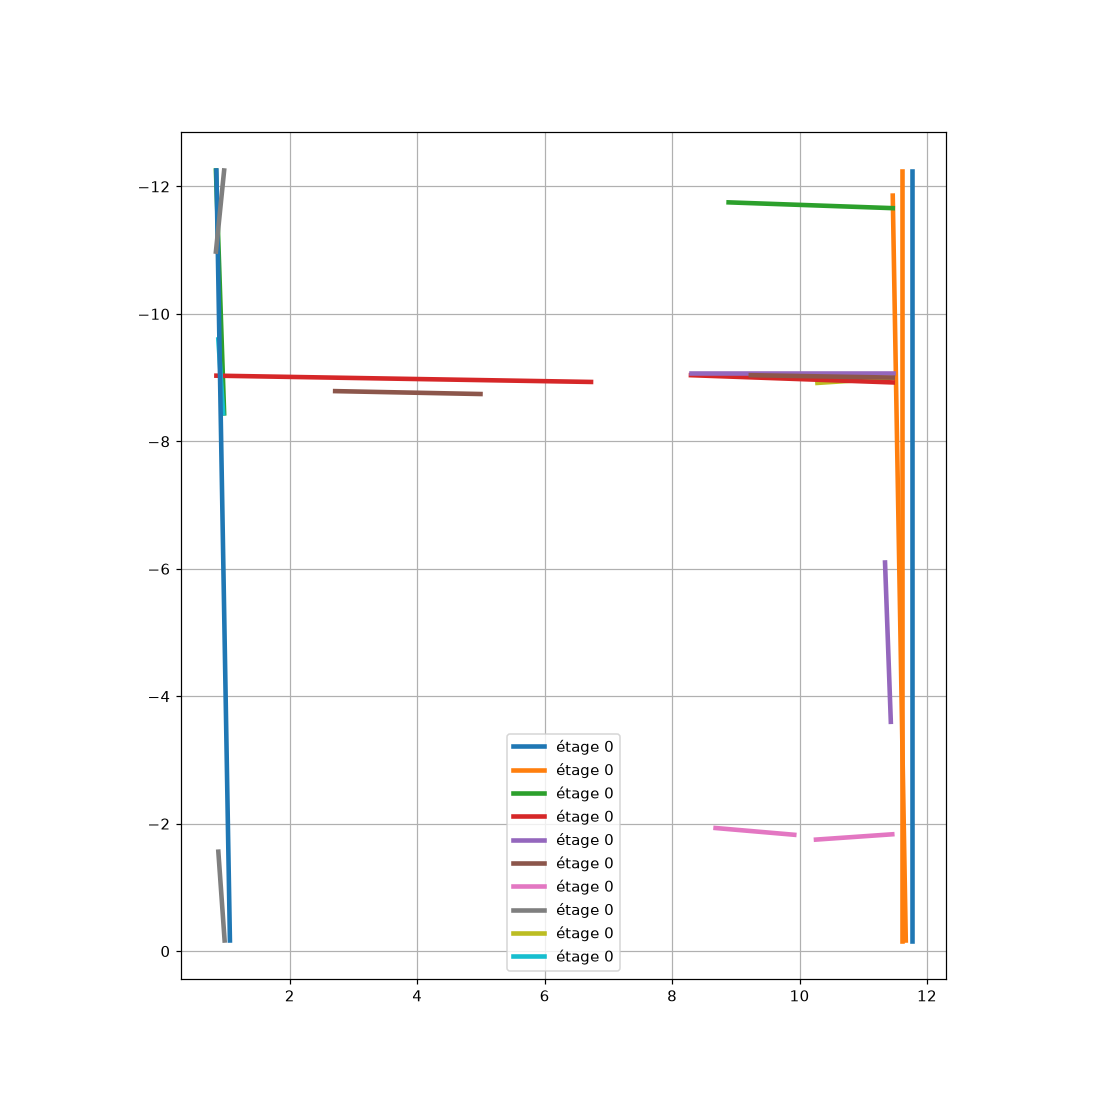
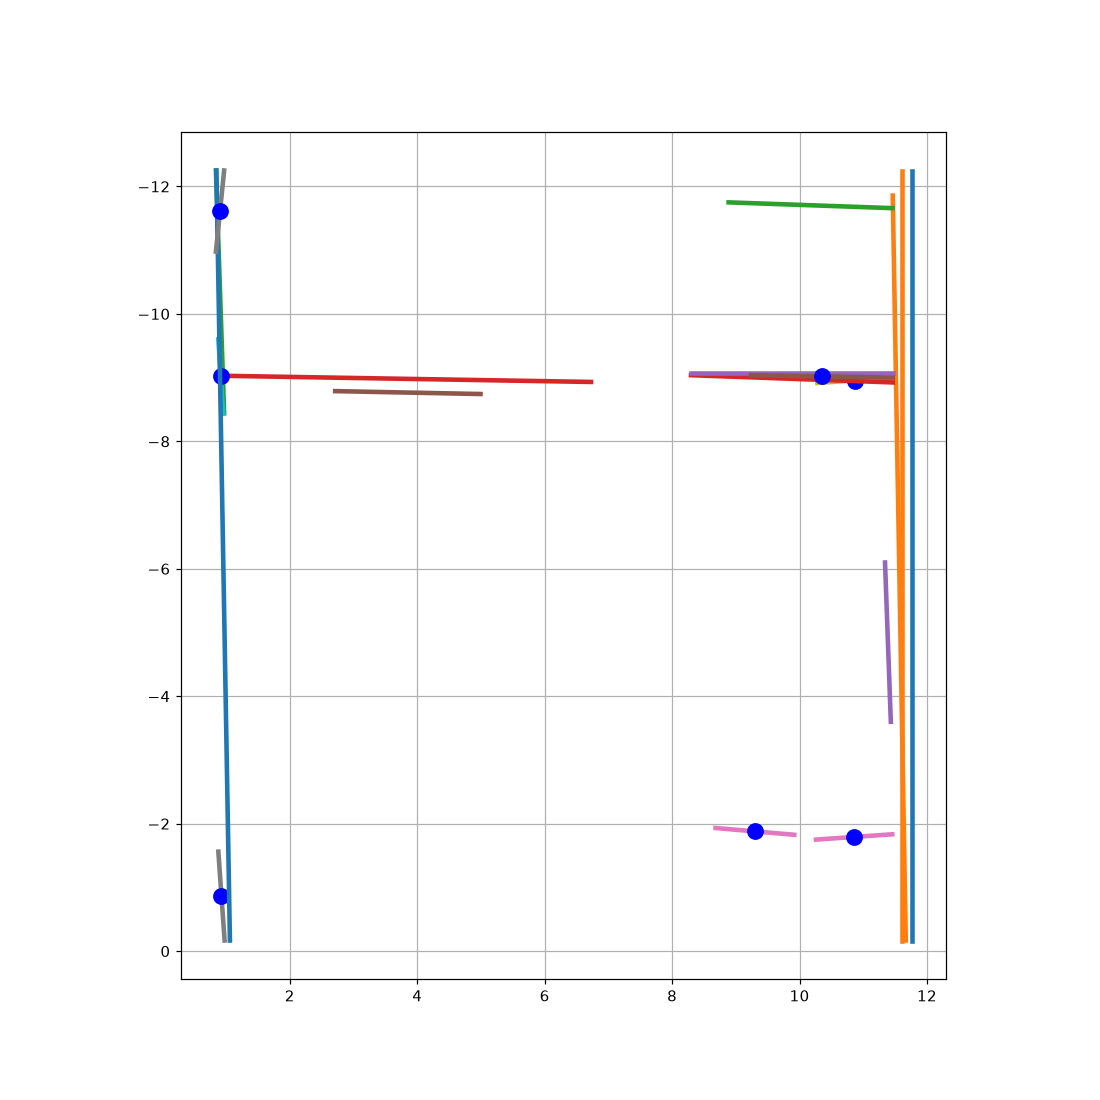
Ajout détection ouvertures (trous entre murs colinéaires) et escaliers, découpe 3D des ouvertures

diff --git a/plan_to_3d.py b/plan_to_3d.py
@@ -4,9 +4,10 @@ import numpy as np
 import trimesh
 import pymupdf
 
-PIXELS_PAR_METRE = 132.0   # 1595 px = 12,12 m (plus longue facade, cote lue sur le plan)
+PIXELS_PAR_METRE = 132.0
 EPAISSEUR_MUR = 0.20
 HAUTEUR_MUR = 2.50
+SEUIL_PORTE = 40
 
 
 def masque_murs(img, seuil=200, close_px=15, epaisseur_px=9):
@@ -14,14 +15,14 @@ def masque_murs(img, seuil=200, close_px=15, epaisseur_px=9):
     _, binaire = cv2.threshold(gray, seuil, 255, cv2.THRESH_BINARY_INV)
     ferme = cv2.morphologyEx(binaire, cv2.MORPH_CLOSE, np.ones((close_px, close_px), np.uint8))
     dist = cv2.distanceTransform(ferme, cv2.DIST_L2, 5)
-    return np.uint8(dist > epaisseur_px) * 255, ferme
+    return np.uint8(dist > epaisseur_px) * 255, binaire, ferme
 
 
 def composant_batiment(ferme):
     dil = cv2.dilate(ferme, np.ones((25, 25), np.uint8))
     nb, labels, stats, _ = cv2.connectedComponentsWithStats(dil, 8)
     i = 1 + int(np.argmax(stats[1:, cv2.CC_STAT_AREA]))
-    return labels == i
+    return labels == i, stats[i]
 
 
 def fusionner(segments, tol_angle=6, tol_dist=30):
@@ -61,9 +62,7 @@ def nettoyer_groupes(segments, tol_dist=45, max_voisins=3):
     return out
 
 
-def detecter_murs(img):
-    masque, ferme = masque_murs(img)
-    comp = composant_batiment(ferme)
+def detecter_murs(img, masque, comp):
     diag = np.hypot(*img.shape[:2])
     lines = cv2.HoughLinesP(masque, 1, np.pi / 180, threshold=40,
                             minLineLength=int(diag * 0.035), maxLineGap=20)
@@ -80,6 +79,98 @@ def detecter_murs(img):
     return nettoyer_groupes(fusionner(murs))
 
 
+def lignes_longues(masque):
+    diag = np.hypot(*masque.shape[:2])
+    lines = cv2.HoughLinesP(masque, 1, np.pi / 180, threshold=40,
+                            minLineLength=int(diag * 0.10), maxLineGap=int(diag * 0.35))
+    return [] if lines is None else [tuple(map(int, l)) for l in lines.reshape(-1, 4)]
+
+
+def classer_ouverture(fins, cx, cy, ux, uy, largeur_px):
+    nx, ny = -uy, ux
+    demi_along, demi_norm = largeur_px / 2 + 25, 150
+    mask = np.zeros(fins.shape, np.uint8)
+    for dy in range(-demi_norm, demi_norm + 1):
+        for dx in range(-int(demi_along), int(demi_along) + 1):
+            px, py = int(cx + ux * dx + nx * dy), int(cy + uy * dx + ny * dy)
+            if 0 <= py < mask.shape[0] and 0 <= px < mask.shape[1]:
+                mask[py, px] = 255
+    ys, xs = np.nonzero(cv2.bitwise_and(fins, mask))
+    if len(xs) == 0:
+        return "fenetre"
+    dist = np.abs((xs - cx) * nx + (ys - cy) * ny)
+    return "porte" if dist.max() > SEUIL_PORTE else "fenetre"
+
+
+def trouver_ouvertures(segments):
+    # groupe les murs colineaires (meme ligne) et cherche les trous entre leurs extremites
+    groupes = {}
+    for (x1, y1, x2, y2) in segments:
+        angle = np.degrees(np.arctan2(-(y2 - y1), x2 - x1)) % 180.0
+        nx, ny = -np.sin(np.radians(angle)), np.cos(np.radians(angle))
+        rho = (x1 + x2) / 2 * nx + (y1 + y2) / 2 * ny
+        for g in groupes.values():
+            da = min(abs(angle - g["angle"]), 180 - abs(angle - g["angle"]))
+            if da < 6 and abs(rho - g["rho"]) < 30:
+                g["segs"].append((x1, y1, x2, y2))
+                break
+        else:
+            groupes[(round(angle), round(rho))] = {"angle": angle, "rho": rho, "segs": [(x1, y1, x2, y2)]}
+    ouvertures = []
+    for g in groupes.values():
+        angle = g["angle"]
+        ux, uy = np.cos(np.radians(angle)), -np.sin(np.radians(angle))
+        pts = []
+        for (x1, y1, x2, y2) in g["segs"]:
+            pts.append((x1 * ux + y1 * uy, (x1, y1)))
+            pts.append((x2 * ux + y2 * uy, (x2, y2)))
+        pts.sort()
+        for k in range(len(pts) - 1):
+            t1, p1 = pts[k]
+            t2, p2 = pts[k + 1]
+            gap = t2 - t1
+            if 80 <= gap <= 300:
+                cx = (p1[0] + p2[0]) / 2
+                cy = (p1[1] + p2[1]) / 2
+                ouvertures.append({
+                    "type": "porte" if gap < 135 else "fenetre",
+                    "centre": (cx, cy), "largeur_px": gap,
+                    "angle": np.arctan2(-(p2[1] - p1[1]), p2[0] - p1[0]),
+                })
+    return ouvertures
+
+
+def detecter_escaliers(binaire, comp):
+    diag = np.hypot(*binaire.shape[:2])
+    lines = cv2.HoughLinesP(binaire, 1, np.pi / 180, threshold=30,
+                            minLineLength=int(diag * 0.04), maxLineGap=4)
+    if lines is None:
+        return []
+    segs = [tuple(map(int, l)) for l in lines.reshape(-1, 4)]
+    horiz = [s for s in segs if abs(s[3] - s[1]) < 8 and np.hypot(s[2]-s[0], s[3]-s[1]) < diag * 0.3]
+    horiz.sort(key=lambda s: s[1])
+    groupes, cur = [], []
+    for s in horiz:
+        if cur and abs(s[1] - cur[-1][1]) < 30:
+            cur.append(s)
+        else:
+            if len(cur) >= 5:
+                groupes.append(cur)
+            cur = [s]
+    if len(cur) >= 5:
+        groupes.append(cur)
+    out = []
+    for g in groupes:
+        xs = [v for s in g for v in (s[0], s[2])]
+        ys = [v for s in g for v in (s[1], s[3])]
+        w, h = max(xs) - min(xs), max(ys) - min(ys)
+        if w < diag * 0.5 and h < diag * 0.5:
+            mx, my = (min(xs)+max(xs))//2, (min(ys)+max(ys))//2
+            if comp[my, mx]:
+                out.append((min(xs), min(ys), max(xs), max(ys), len(g)))
+    return out
+
+
 def segment_vers_boite(x1, y1, x2, y2, z0, ox, oy):
     s = 1.0 / PIXELS_PAR_METRE
     longueur = np.hypot(x2 - x1, y2 - y1) * s
@@ -91,23 +182,83 @@ def segment_vers_boite(x1, y1, x2, y2, z0, ox, oy):
     return box
 
 
+def decouper_ouverture(mur, ouv, z0, ox, oy):
+    s = 1.0 / PIXELS_PAR_METRE
+    cx = (ouv["centre"][0] - ox) * s
+    cy = (ouv["centre"][1] - oy) * s
+    largeur = ouv["largeur_px"] * s + 0.1
+    haut = HAUTEUR_MUR if ouv["type"] == "porte" else 1.2
+    z_base = z0 if ouv["type"] == "porte" else z0 + 0.9
+    cutter = trimesh.creation.box(extents=[largeur, EPAISSEUR_MUR * 4, haut])
+    cutter.apply_transform(trimesh.transformations.rotation_matrix(ouv["angle"], [0, 0, 1]))
+    cutter.apply_translation([cx, cy, z_base + haut / 2])
+    try:
+        return trimesh.boolean.difference([mur, cutter], engine="manifold")
+    except Exception:
+        return mur
+
+
+def construire_marches(bbox, n, z0, ox, oy):
+    s = 1.0 / PIXELS_PAR_METRE
+    x0, y0 = (bbox[0] - ox) * s, (bbox[1] - oy) * s
+    x1, y1 = (bbox[2] - ox) * s, (bbox[3] - oy) * s
+    w, l = x1 - x0, y1 - y0
+    n = max(n, 4)
+    marches = []
+    if w >= l:
+        profondeur = w / n
+        for i in range(n):
+            h = HAUTEUR_MUR * (i + 1) / n
+            m = trimesh.creation.box(extents=[profondeur, l, h])
+            m.apply_translation([x0 + profondeur * (i + 0.5), (y0 + y1) / 2, z0 + h / 2])
+            marches.append(m)
+    else:
+        profondeur = l / n
+        for i in range(n):
+            h = HAUTEUR_MUR * (i + 1) / n
+            m = trimesh.creation.box(extents=[w, profondeur, h])
+            m.apply_translation([(x0 + x1) / 2, y0 + profondeur * (i + 0.5), z0 + h / 2])
+            marches.append(m)
+    return marches
+
+
 def pdf_vers_maison(pdf_path, sortie="maison.glb", debug_png="debug_dessus.png"):
     doc = pymupdf.open(pdf_path)
     meshes = []
-    dessus = None
+    import matplotlib
+    matplotlib.use("Agg")
+    import matplotlib.pyplot as plt
+    fig, ax = plt.subplots(figsize=(10, 10))
     for etage, page in enumerate(doc):
         pix = page.get_pixmap(dpi=200)
         img = cv2.imdecode(np.frombuffer(pix.tobytes("png"), np.uint8), cv2.IMREAD_COLOR)
-        segs = detecter_murs(img)
-        print(f"étage {etage} (page {etage}) : {len(segs)} murs détectés")
+        masque, binaire, ferme = masque_murs(img)
+        comp, stats = composant_batiment(ferme)
+        ox, oy = stats[cv2.CC_STAT_LEFT], stats[cv2.CC_STAT_TOP]
+        segs = detecter_murs(img, masque, comp)
+        fins = cv2.bitwise_and(binaire, cv2.bitwise_not(cv2.dilate(masque, np.ones((7, 7), np.uint8))))
+        ouvertures = trouver_ouvertures(segs)
+        escaliers = detecter_escaliers(binaire, comp)
+        print(f"étage {etage} : {len(segs)} murs, {len(ouvertures)} ouvertures, {len(escaliers)} escalier(s)")
+        for o in ouvertures:
+            print(f"    - {o['type']} {o['largeur_px']/PIXELS_PAR_METRE:.2f} m")
         z0 = etage * HAUTEUR_MUR
-        # origine commune = coin du composant bâtiment (alignement des étages)
-        masque, ferme = masque_murs(img)
-        dil = cv2.dilate(ferme, np.ones((25, 25), np.uint8))
-        nb, labels, stats, _ = cv2.connectedComponentsWithStats(dil, 8)
-        i = 1 + int(np.argmax(stats[1:, cv2.CC_STAT_AREA]))
-        ox, oy = stats[i, cv2.CC_STAT_LEFT], stats[i, cv2.CC_STAT_TOP]
         floor = [segment_vers_boite(*s, z0=z0, ox=ox, oy=oy) for s in segs]
+        for ouv in ouvertures:
+            cx, cy = ouv["centre"]
+            best, bd = None, 1e9
+            for s, m in zip(segs, floor):
+                x1, y1, x2, y2 = s
+                n = max(np.hypot(x2 - x1, y2 - y1), 1)
+                ux, uy = (x2 - x1) / n, (y2 - y1) / n
+                t = max(0, min(n, (cx - x1) * ux + (cy - y1) * uy))
+                d = np.hypot(cx - (x1 + ux * t), cy - (y1 + uy * t))
+                if d < bd:
+                    bd, best = d, m
+            if best is not None and bd < 150:
+                floor[floor.index(best)] = decouper_ouverture(best, ouv, z0, ox, oy)
+        for e in escaliers:
+            floor += construire_marches(e[:4], e[4], z0, ox, oy)
         if not floor:
             continue
         xs = [v[0] for m in floor for v in m.vertices]
@@ -115,23 +266,16 @@ def pdf_vers_maison(pdf_path, sortie="maison.glb", debug_png="debug_dessus.png")
         dalle = trimesh.creation.box(extents=[max(xs) - min(xs) + 0.4, max(ys) - min(ys) + 0.4, 0.2])
         dalle.apply_translation([(max(xs) + min(xs)) / 2, (max(ys) + min(ys)) / 2, z0 - 0.1])
         meshes += floor + [dalle]
-        import matplotlib
-        matplotlib.use("Agg")
-        import matplotlib.pyplot as plt
-        if dessus is None:
-            fig, ax = plt.subplots(figsize=(10, 10))
-            dessus = (fig, ax)
-        fig, ax = dessus
         for s in segs:
             ax.plot([(s[0]-ox)/PIXELS_PAR_METRE, (s[2]-ox)/PIXELS_PAR_METRE],
-                    [-(s[1]-oy)/PIXELS_PAR_METRE, -(s[3]-oy)/PIXELS_PAR_METRE],
-                    lw=3, label=f"étage {etage}" if etage == 0 else None)
-    if dessus:
-        fig, ax = dessus
-        ax.set_aspect("equal"); ax.invert_yaxis(); ax.grid(True); ax.legend()
-        fig.savefig(debug_png, dpi=110)
-        plt.close(fig)
-        print(f"vue de dessus -> {debug_png}")
+                    [-(s[1]-oy)/PIXELS_PAR_METRE, -(s[3]-oy)/PIXELS_PAR_METRE], lw=3)
+        for o in ouvertures:
+            ax.plot((o["centre"][0]-ox)/PIXELS_PAR_METRE, -(o["centre"][1]-oy)/PIXELS_PAR_METRE,
+                    "o", color="red" if o["type"] == "porte" else "blue", ms=10)
+    ax.set_aspect("equal"); ax.invert_yaxis(); ax.grid(True)
+    fig.savefig(debug_png, dpi=110)
+    plt.close(fig)
+    print(f"vue de dessus (rouge=porte, bleu=fenetre) -> {debug_png}")
     maison = trimesh.util.concatenate(meshes)
     maison.export(sortie)
     b = maison.bounds
